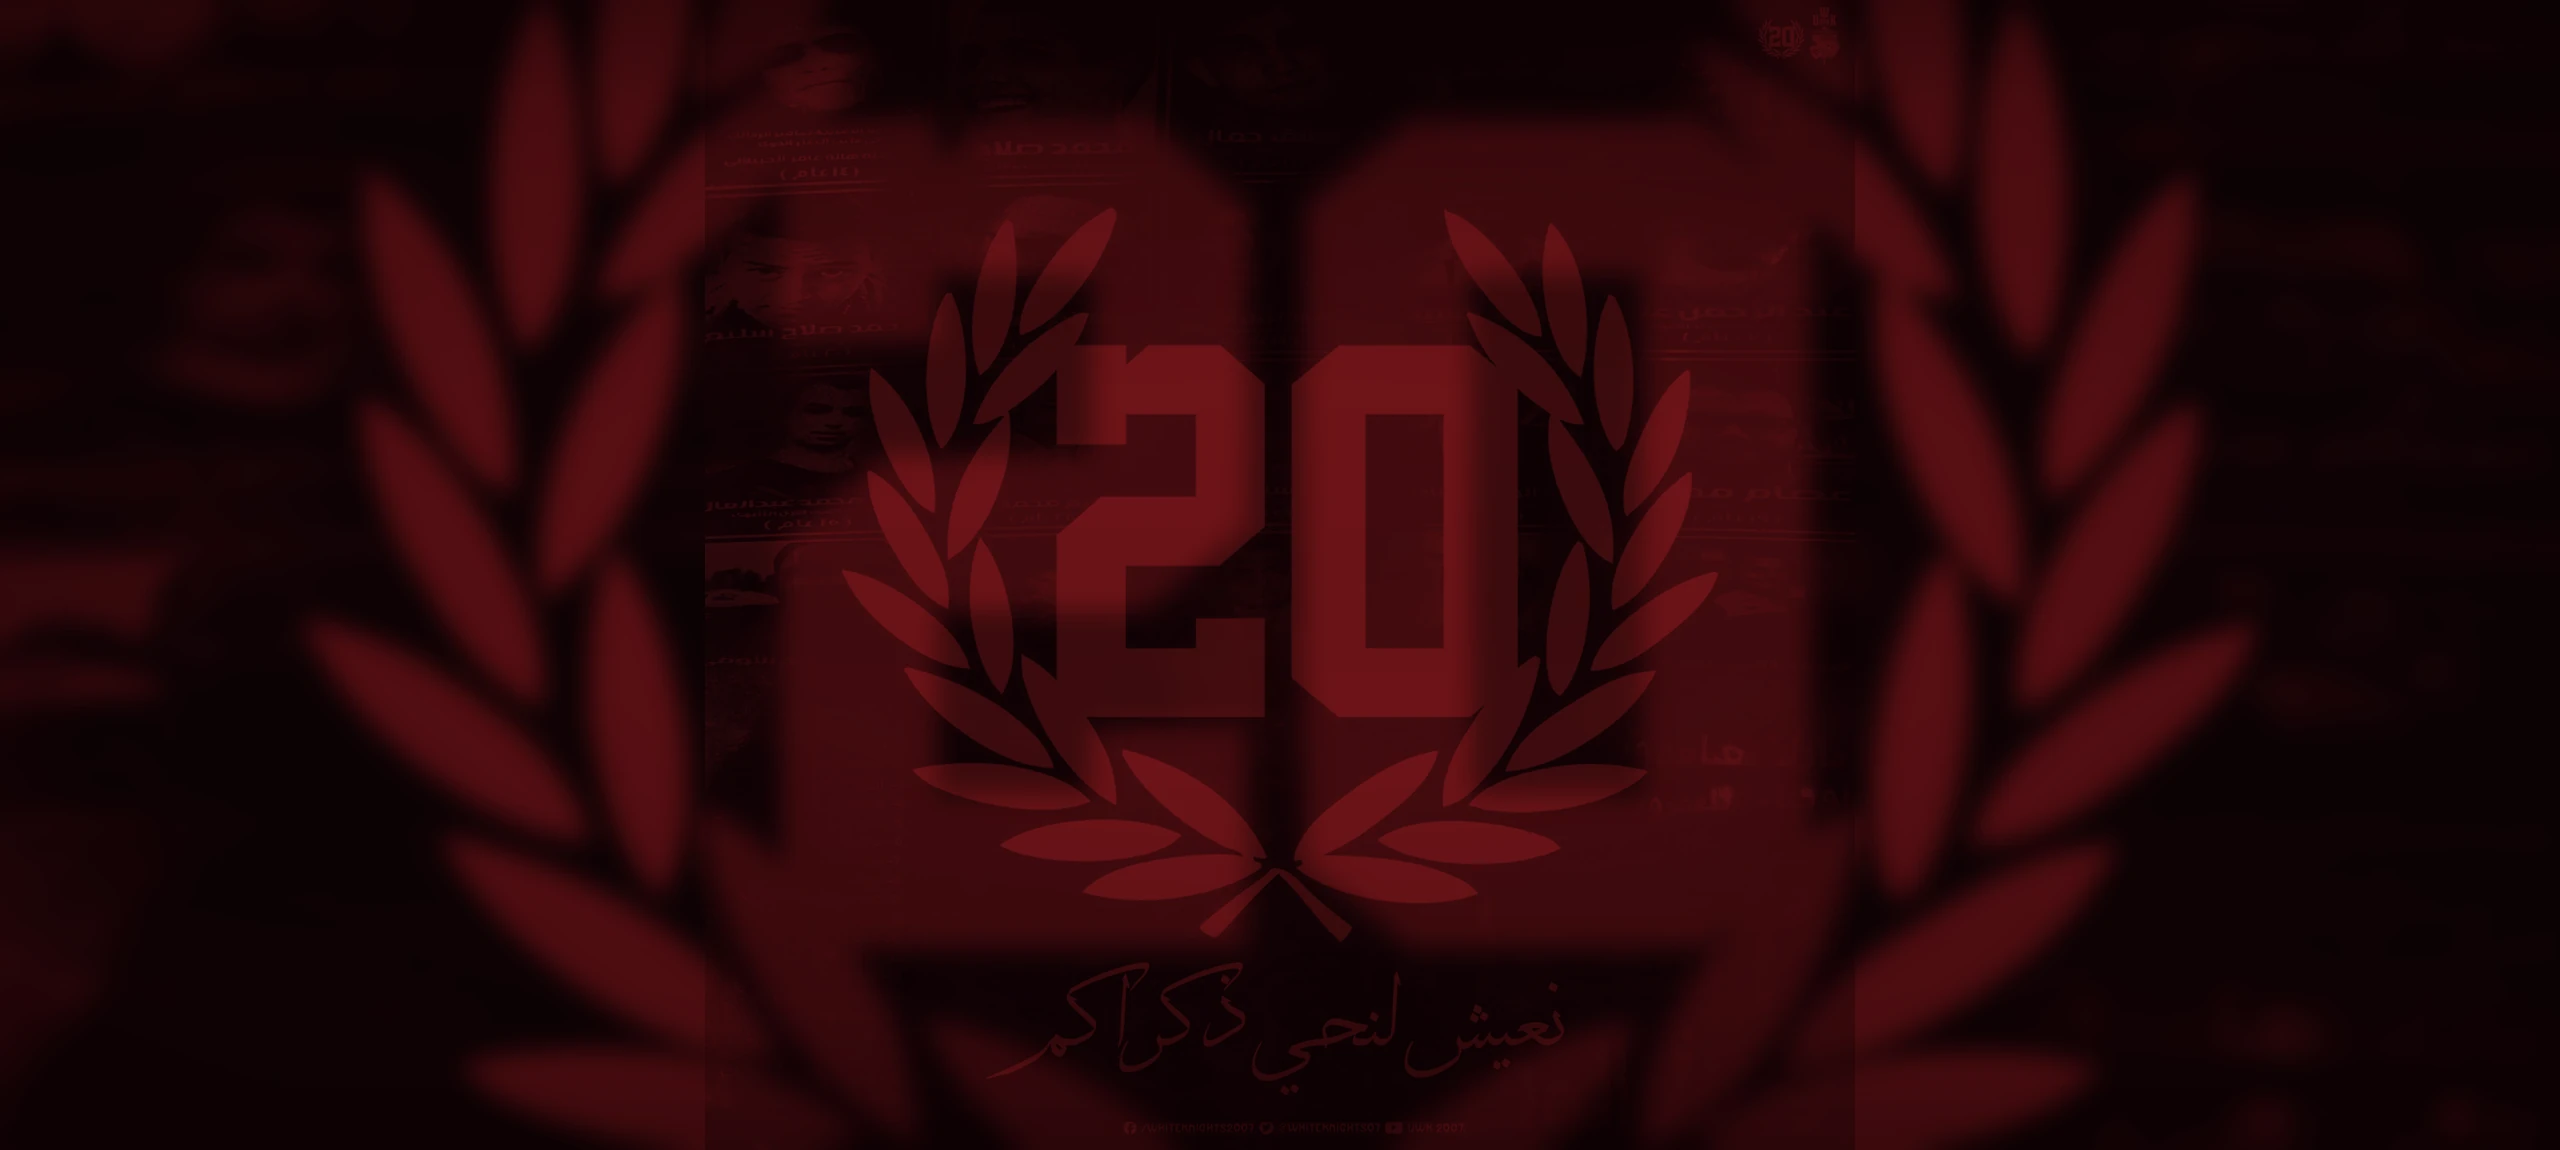
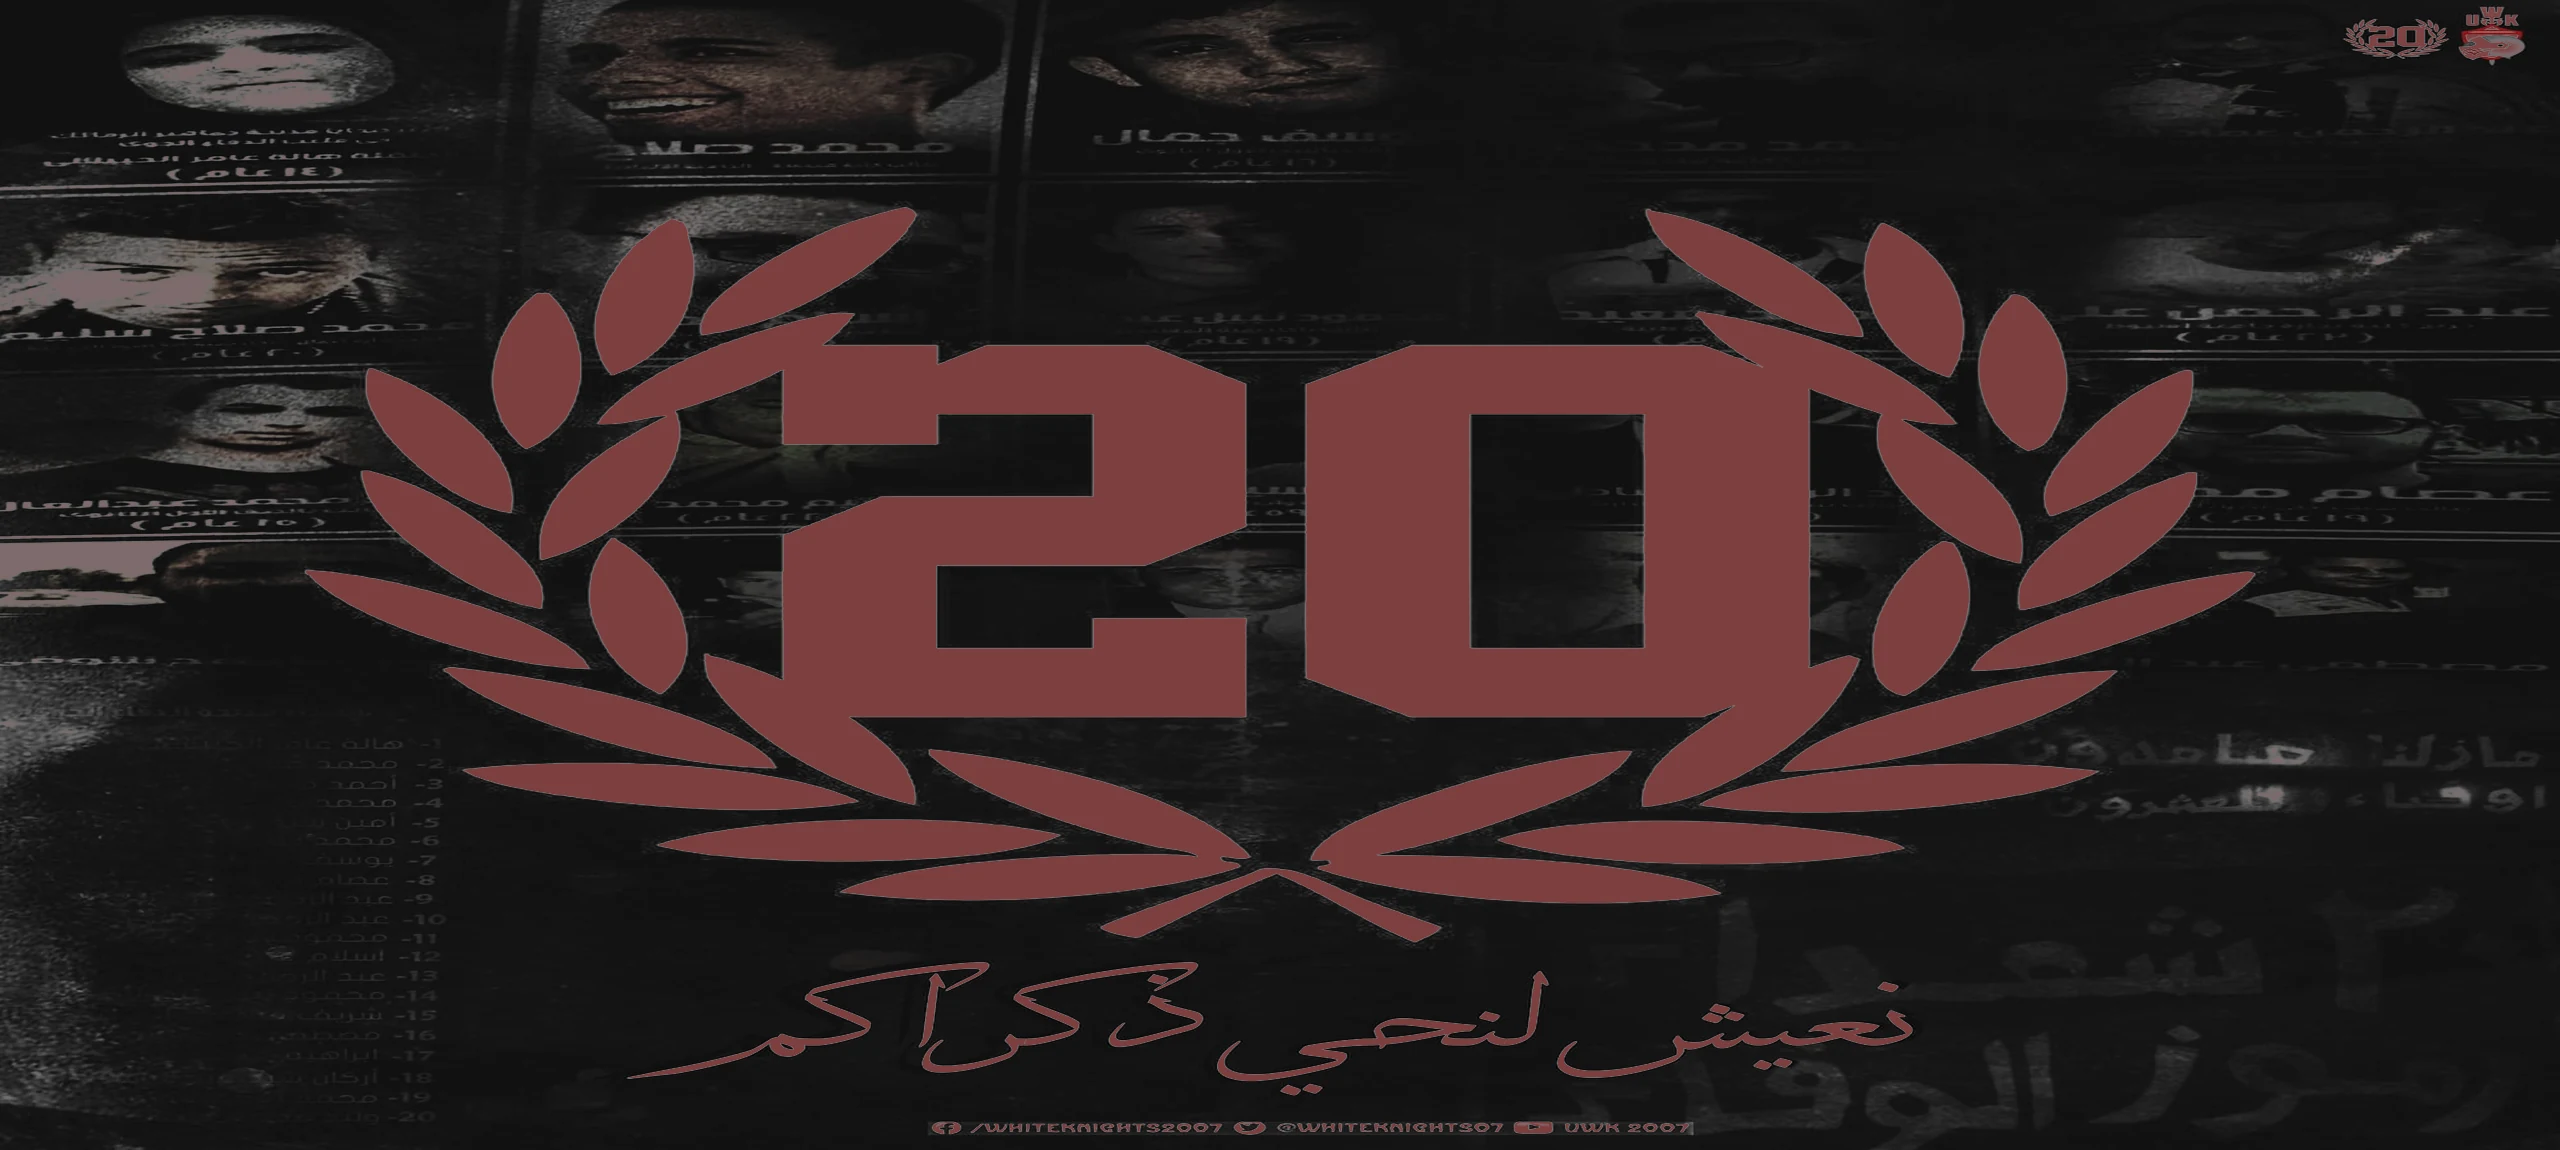
9663

diff --git a/public/ua07-20-theme.css b/public/ua07-20-theme.css
@@ -892,3 +892,222 @@ html.ua07-legacy-theme-live .sub-dropdown:hover > a {
     inset 0 -1px 0 rgba(255,0,0,0.25),
     0 8px 18px rgba(0,0,0,0.22) !important;
 }
+
+/* ===== UA07 Legacy 20 Theme V8: full-width calm wallpaper + clearer transparent glass =====
+   Scope: the new UA07 legacy theme only. Visual CSS only.
+   No width/height/padding/order/IDs/tool logic/workflow changes.
+*/
+html.ua07-legacy-theme-live,
+html.ua07-legacy-theme-live body {
+  background-color: #020202 !important;
+}
+
+html.ua07-legacy-theme-live body {
+  background-image:
+    linear-gradient(180deg,
+      rgba(0,0,0,0.22) 0%,
+      rgba(0,0,0,0.08) 26%,
+      rgba(0,0,0,0.04) 50%,
+      rgba(0,0,0,0.18) 78%,
+      rgba(0,0,0,0.44) 100%),
+    linear-gradient(90deg,
+      rgba(0,0,0,0.30) 0%,
+      rgba(0,0,0,0.05) 16%,
+      rgba(0,0,0,0.00) 50%,
+      rgba(0,0,0,0.05) 84%,
+      rgba(0,0,0,0.30) 100%),
+    radial-gradient(125% 92% at 50% 47%,
+      rgba(255,255,255,0.020) 0%,
+      rgba(0,0,0,0.00) 42%,
+      rgba(0,0,0,0.24) 100%),
+    url("./ua07-20-bg.webp?v=ua07legacy8"),
+    linear-gradient(135deg, #020203 0%, #090606 48%, #020203 100%) !important;
+  background-position:
+    center center,
+    center center,
+    center center,
+    center center,
+    center center !important;
+  background-size:
+    cover,
+    cover,
+    cover,
+    100% 100%,
+    cover !important;
+  background-repeat:
+    no-repeat,
+    no-repeat,
+    no-repeat,
+    no-repeat,
+    no-repeat !important;
+  background-attachment:
+    fixed,
+    fixed,
+    fixed,
+    fixed,
+    fixed !important;
+}
+
+/* Keep parent containers fully clear so the wallpaper shows through. */
+html.ua07-legacy-theme-live body .navbar,
+html.ua07-legacy-theme-live .navbar,
+html.ua07-legacy-theme-live .dropdown,
+html.ua07-legacy-theme-live .tabcontent {
+  background: transparent !important;
+  background-color: transparent !important;
+}
+
+/* Main menu buttons: clearer glass, much less blocky, still readable. */
+html.ua07-legacy-theme-live .dropdown .dropbtn,
+html.ua07-legacy-theme-live .navbar a,
+html.ua07-legacy-theme-live #singlelink {
+  color: rgba(255,255,255,0.99) !important;
+  background:
+    linear-gradient(180deg,
+      rgba(255,255,255,0.150) 0%,
+      rgba(255,255,255,0.055) 38%,
+      rgba(255,255,255,0.016) 100%),
+    linear-gradient(180deg,
+      rgba(8,10,13,0.135) 0%,
+      rgba(0,0,0,0.105) 62%,
+      rgba(78,0,0,0.075) 100%) !important;
+  background-color: rgba(255,255,255,0.035) !important;
+  border-color: rgba(255,255,255,0.22) !important;
+  text-shadow:
+    0 1px 2px rgba(0,0,0,1),
+    0 0 6px rgba(0,0,0,0.94),
+    0 0 1px rgba(255,255,255,0.40) !important;
+  box-shadow:
+    inset 0 1px 0 rgba(255,255,255,0.26),
+    inset 0 0 0 1px rgba(255,255,255,0.11),
+    inset 0 -1px 0 rgba(255,255,255,0.045),
+    0 6px 15px rgba(0,0,0,0.15) !important;
+  backdrop-filter: blur(10px) brightness(0.90) contrast(1.08) saturate(1.12) !important;
+  -webkit-backdrop-filter: blur(10px) brightness(0.90) contrast(1.08) saturate(1.12) !important;
+}
+
+html.ua07-legacy-theme-live .dropdown:hover .dropbtn,
+html.ua07-legacy-theme-live #singlelink:hover,
+html.ua07-legacy-theme-live .navbar a:hover {
+  color: #fff !important;
+  background:
+    radial-gradient(130% 150% at 18% 0%, rgba(255,255,255,0.20), rgba(255,255,255,0) 43%),
+    linear-gradient(180deg,
+      rgba(255,255,255,0.115) 0%,
+      rgba(124,0,0,0.145) 48%,
+      rgba(0,0,0,0.095) 100%) !important;
+  background-color: rgba(80,0,0,0.105) !important;
+  border-color: rgba(255,255,255,0.31) !important;
+  text-shadow:
+    0 1px 2px rgba(0,0,0,1),
+    0 0 8px rgba(255,255,255,0.15) !important;
+  box-shadow:
+    inset 0 1px 0 rgba(255,255,255,0.31),
+    inset 0 0 0 1px rgba(255,255,255,0.16),
+    inset 0 -1px 0 rgba(170,0,0,0.16),
+    0 8px 18px rgba(0,0,0,0.22),
+    0 0 14px rgba(145,0,0,0.12) !important;
+  backdrop-filter: blur(11px) brightness(0.94) contrast(1.10) saturate(1.18) !important;
+  -webkit-backdrop-filter: blur(11px) brightness(0.94) contrast(1.10) saturate(1.18) !important;
+}
+
+/* Secondary strip buttons: matching transparent glass instead of red/black blocks. */
+html.ua07-legacy-theme-live .mndo-tabs button,
+html.ua07-legacy-theme-live #mndoTabs button,
+html.ua07-legacy-theme-live .tab button,
+html.ua07-legacy-theme-live button.tablinks:not(#tabs .tablinks) {
+  background:
+    linear-gradient(180deg,
+      rgba(255,255,255,0.145) 0%,
+      rgba(255,255,255,0.045) 42%,
+      rgba(255,255,255,0.010) 100%),
+    linear-gradient(180deg,
+      rgba(8,10,13,0.120) 0%,
+      rgba(0,0,0,0.085) 66%,
+      rgba(84,0,0,0.065) 100%) !important;
+  background-color: rgba(255,255,255,0.030) !important;
+  color: rgba(255,255,255,0.985) !important;
+  border-color: rgba(255,255,255,0.19) !important;
+  text-shadow:
+    0 1px 2px rgba(0,0,0,1),
+    0 0 5px rgba(0,0,0,0.92),
+    0 0 1px rgba(255,255,255,0.28) !important;
+  box-shadow:
+    inset 0 1px 0 rgba(255,255,255,0.24),
+    inset 0 0 0 1px rgba(255,255,255,0.10),
+    inset 0 -1px 0 rgba(255,255,255,0.035),
+    0 5px 12px rgba(0,0,0,0.14) !important;
+  backdrop-filter: blur(9px) brightness(0.90) contrast(1.08) saturate(1.12) !important;
+  -webkit-backdrop-filter: blur(9px) brightness(0.90) contrast(1.08) saturate(1.12) !important;
+}
+
+/* Open menus: glass panel; transparent enough to show the image, dark enough for text. */
+html.ua07-legacy-theme-live .dropdown-content,
+html.ua07-legacy-theme-live .dropdown-content[style],
+html.ua07-legacy-theme-live .sub-dropdown-content,
+html.ua07-legacy-theme-live .sub-dropdown-content[style] {
+  background:
+    radial-gradient(135% 115% at 14% 0%, rgba(255,255,255,0.145), rgba(255,255,255,0) 42%),
+    linear-gradient(180deg,
+      rgba(255,255,255,0.070) 0%,
+      rgba(8,9,12,0.285) 45%,
+      rgba(36,0,0,0.235) 100%) !important;
+  background-color: rgba(5,5,7,0.280) !important;
+  color: rgba(255,255,255,0.99) !important;
+  border-color: rgba(255,255,255,0.22) !important;
+  text-shadow:
+    0 1px 2px rgba(0,0,0,1),
+    0 0 6px rgba(0,0,0,0.96) !important;
+  box-shadow:
+    inset 0 1px 0 rgba(255,255,255,0.18),
+    inset 0 0 0 1px rgba(255,255,255,0.075),
+    0 18px 42px rgba(0,0,0,0.38),
+    0 0 16px rgba(110,0,0,0.10) !important;
+  backdrop-filter: blur(16px) brightness(0.84) contrast(1.13) saturate(1.18) !important;
+  -webkit-backdrop-filter: blur(16px) brightness(0.84) contrast(1.13) saturate(1.18) !important;
+}
+
+html.ua07-legacy-theme-live .sub-dropdown,
+html.ua07-legacy-theme-live .sub-dropdown[style] {
+  background:
+    linear-gradient(180deg, rgba(255,255,255,0.055), rgba(0,0,0,0.105)) !important;
+  background-color: rgba(5,5,7,0.155) !important;
+  color: rgba(255,255,255,0.99) !important;
+  backdrop-filter: blur(12px) brightness(0.86) contrast(1.12) saturate(1.14) !important;
+  -webkit-backdrop-filter: blur(12px) brightness(0.86) contrast(1.12) saturate(1.14) !important;
+}
+
+html.ua07-legacy-theme-live .dropdown-content a,
+html.ua07-legacy-theme-live .sub-dropdown-content a,
+html.ua07-legacy-theme-live .sub-dropdown > a {
+  color: rgba(255,255,255,0.99) !important;
+  background:
+    linear-gradient(180deg, rgba(255,255,255,0.065), rgba(255,255,255,0.012)) !important;
+  background-color: rgba(255,255,255,0.016) !important;
+  text-shadow:
+    0 1px 2px rgba(0,0,0,1),
+    0 0 6px rgba(0,0,0,0.94),
+    0 0 1px rgba(255,255,255,0.24) !important;
+  box-shadow:
+    inset 0 -1px 0 rgba(255,255,255,0.060),
+    inset 0 1px 0 rgba(255,255,255,0.028) !important;
+}
+
+html.ua07-legacy-theme-live .sub-dropdown:hover,
+html.ua07-legacy-theme-live .sub-dropdown:hover[style],
+html.ua07-legacy-theme-live .dropdown-content a:hover,
+html.ua07-legacy-theme-live .sub-dropdown-content a:hover,
+html.ua07-legacy-theme-live .sub-dropdown:hover > a {
+  background:
+    radial-gradient(150% 150% at 14% 0%, rgba(255,255,255,0.22), rgba(255,255,255,0) 44%),
+    linear-gradient(90deg, rgba(134,0,0,0.335), rgba(255,255,255,0.055) 52%, rgba(0,0,0,0.145) 100%) !important;
+  background-color: rgba(88,0,0,0.220) !important;
+  color: #fff !important;
+  text-shadow:
+    0 1px 2px rgba(0,0,0,1),
+    0 0 8px rgba(255,255,255,0.13) !important;
+  box-shadow:
+    inset 0 1px 0 rgba(255,255,255,0.20),
+    inset 0 -1px 0 rgba(255,0,0,0.16),
+    0 8px 18px rgba(0,0,0,0.20) !important;
+}

diff --git a/public/eid-hud.js b/public/eid-hud.js
@@ -10,7 +10,7 @@ const LS_THEME_OFF = "sr_eid_theme_off";
 const LS_THEME_MODE = "sr_visual_theme_mode";
 const TOGGLE_BTN_ID = "EID_TOGGLE_BTN";
 const LEGACY_THEME_LINK_ID = "ua07LegacyThemeLink";
-const LEGACY_THEME_HREF = "ua07-20-theme.css?v=ua07legacy7";
+const LEGACY_THEME_HREF = "ua07-20-theme.css?v=ua07legacy8";
 const THEME_EID = "eid";
 const THEME_LEGACY = "legacy";
 const THEME_OFF = "off";
